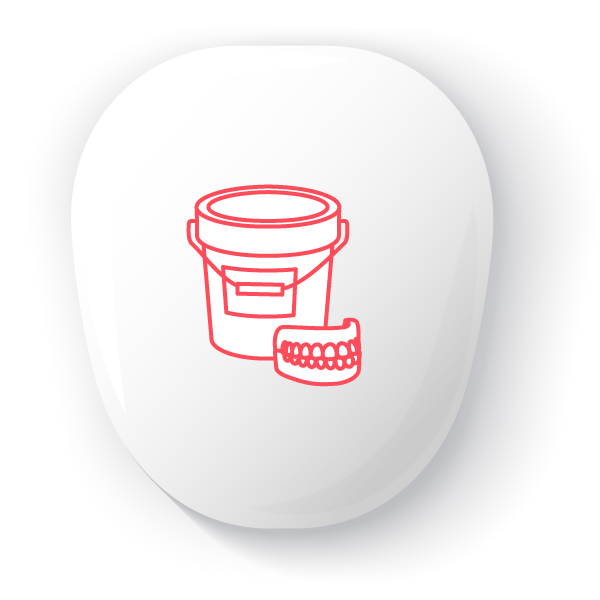
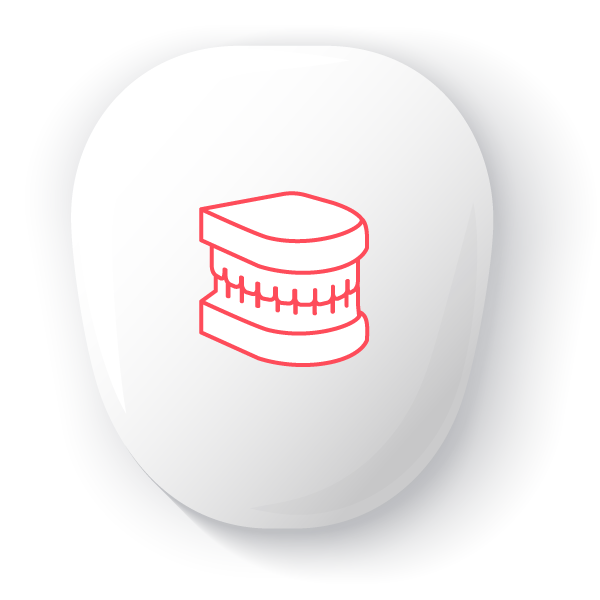
updt

Changed region(s): [[0.3, 0.3, 0.63, 0.66]]

diff --git a/index.html b/index.html
@@ -1446,7 +1446,7 @@ filter: saturate(0) brightness(1);}
             
            
  <style>
-#formadiente {display:block;}
+#formadiente {display:flex;}
 #formaperla, #formadisco {display:none;}
 
 .mibotonera {display:flex;  justify-content: center; flex-wrap:wrap; flex-direction:row; margin: 0 2rem;}
@@ -1482,10 +1482,18 @@ filter: saturate(0) brightness(1);}
 
 .products h2:first-letter {text-transform: capitalize;}
 
+#formadientesmall {flex-direction:row;}
+#formadientesmall ul li {width: auto!important;
+    padding: 0!important;
+    margin: 0!important;
+    flex: 1 1 0; max-width: 8rem;}
+#formadientesmall ul li img {display:block; max-width:8rem;}
 
 @media screen and (max-width: 500px) {
 	
-.boton {margin-left:1rem; padding:13px; border-radius: 50px; border:1px solid #666666;}	}
+.boton {margin-left:1rem; padding:7px; border-radius: 30px; border:1px solid #666666; font-size: 0.75rem;}
+#formadientesmall ul li img {max-width:6rem; margin: 0 auto!important;}
+	}
 
  </style> 
  <script  type="text/javascript" src="https://cdnjs.cloudflare.com/ajax/libs/jquery/3.2.1/jquery.min.js"></script>
@@ -1495,9 +1503,9 @@ filter: saturate(0) brightness(1);}
 $(document).ready(function() {
 
 var display = function(block_name) {
-  $('#formadiente, #formadisco, #formaperla').css('display', 'none');
-  $('#' + block_name).css('display', 'block');
-  $('.' + block_name).css('display', 'block');
+  $('#formadiente, #formadisco, #formaperla, #formadientesmall').css('display', 'none');
+  $('#' + block_name).css('display', 'flex');
+  $('.' + block_name).css('display', 'flex');
 
 
 }
@@ -1514,6 +1522,9 @@ $('.CT').on('click', function() {
   display('formadisco', $(this));
 });
 
+$('.FDS').on('click', function() {
+  display('formadientesmall', $(this));
+});
 
 
 });
@@ -1546,6 +1557,8 @@ $('.CT').on('click', function() {
 <a id="diente" href="#" class="boton UK">Forma de diente</a>
 <a id="perla" href="#" class="boton ES">Forma de perla</a>
 <a id="disco" href="#" class="boton CT">Forma de disco</a>
+<a id="dientepeke" href="#" class="boton FDS">Iconos pequeños</a>
+
 </div></div>    
 
 	<div id="content" class="site-content" tabindex="-1">
@@ -1875,6 +1888,111 @@ $('.CT').on('click', function() {
 		</a></li>
 </ul>
 </div>
+
+<div id="formadientesmall" class="columns-4"><ul class="products columns-4">
+<li class="product-category product first">
+	<a href="https://dent-thel.com/productos-dentales/laboratorio/articulacion/"><img src="./resources/ICONO_2022_PLAIN.jpg" alt="ARTICULACIÓN" width="324" height="324" srcset="resources/ICONO_LAB_2022_ARTICULACION.jpg 600w, https://dent-thel.com/wp-content/uploads/2017/10/ICONO_ARTICULACION-150x150.jpg 150w, https://dent-thel.com/wp-content/uploads/2017/10/ICONO_ARTICULACION-300x300.jpg 300w, https://dent-thel.com/wp-content/uploads/2017/10/ICONO_ARTICULACION-180x180.jpg 180w" sizes="(max-width: 324px) 100vw, 324px">		<h2 class="woocommerce-loop-category__title">
+			ARTICULACIÓN		</h2>
+		</a></li>
+<li class="product-category product">
+	<a href="https://dent-thel.com/productos-dentales/laboratorio/articuladores/"><img src="./resources/ICONO_ARTICULADORES.jpg" alt="ARTICULADORES" width="324" height="324" srcset="resources/ICONO_LAB_2022_ARTICULADORES.jpg 600w, resources/ICONO_LAB_2022_ARTICULADORES.jpg 150w, https://dent-thel.com/wp-content/uploads/2017/10/ICONO_ARTICULADORES-300x300.jpg 300w, https://dent-thel.com/wp-content/uploads/2017/10/ICONO_ARTICULADORES-180x180.jpg 180w" sizes="(max-width: 324px) 100vw, 324px">		<h2 class="woocommerce-loop-category__title">
+			ARTICULADORES		</h2>
+		</a></li>
+<li class="product-category product">
+	<a href="https://dent-thel.com/productos-dentales/laboratorio/ataches-y-elementos-retentivos/"><img src="./resources/ICONO_ATACHES.jpg" alt="ATACHES Y ELEMENTOS RETENTIVOS" width="324" height="324" srcset="resources/ICONO_LAB_2022_ATACHES.png 600w, https://dent-thel.com/wp-content/uploads/2017/10/ICONO_ATACHES-150x150.jpg 150w, https://dent-thel.com/wp-content/uploads/2017/10/ICONO_ATACHES-300x300.jpg 300w, https://dent-thel.com/wp-content/uploads/2017/10/ICONO_ATACHES-180x180.jpg 180w" sizes="(max-width: 324px) 100vw, 324px">		<h2 class="woocommerce-loop-category__title">
+			ATACHES Y ELEMENTOS RETENTIVOS		</h2>
+		</a></li>
+<li class="product-category product last">
+	<a href="https://dent-thel.com/productos-dentales/laboratorio/cementos-laboratorio/"><img src="resources/ICONO_LAB_2022_CEMENTO.png" alt="CEMENTOS LABORATORIO" width="324" height="324" srcset="resources/ICONO_LAB_2022_CEMENTO.png 324w, resources/ICONO_LAB_2022_CEMENTO.png 300w, resources/ICONO_LAB_2022_CEMENTO.png 150w, resources/ICONO_LAB_2022_CEMENTO.png 32w, resources/ICONO_LAB_2022_CEMENTO.png 416w, https://dent-thel.com/wp-content/uploads/2022/03/ICONO_CEMENTOS_LAB-1-100x100.jpg 100w, resources/ICONO_LAB_2022_CEMENTO.png 600w" sizes="(max-width: 324px) 100vw, 324px">		<h2 class="woocommerce-loop-category__title">
+			CEMENTOS LABORATORIO		</h2>
+		</a></li>
+<li class="product-category product first">
+	<a href="https://dent-thel.com/productos-dentales/laboratorio/ceramica-y-accesorios/"><img src="./resources/ICONO_CERAMICA.jpg" alt="CERÁMICA Y ACCESORIOS" width="324" height="324" srcset="resources/ICONO_LAB_2022_CERAMICA.jpg 600w, https://dent-thel.com/wp-content/uploads/2017/10/ICONO_CERAMICA-150x150.jpg 150w, https://dent-thel.com/wp-content/uploads/2017/10/ICONO_CERAMICA-300x300.jpg 300w, https://dent-thel.com/wp-content/uploads/2017/10/ICONO_CERAMICA-180x180.jpg 180w" sizes="(max-width: 324px) 100vw, 324px"><h2 class="woocommerce-loop-category__title">
+			CERÁMICA Y ACCESORIOS		</h2>
+		</a></li>
+<li class="product-category product">
+	<a href="https://dent-thel.com/productos-dentales/laboratorio/ceras-y-accesorios/"><img src="./resources/ICONO_CERAS.jpg" alt="CERAS Y ACCESORIOS" width="324" height="324" srcset="resources/ICONO_LAB_2022_CERA.png 600w, https://dent-thel.com/wp-content/uploads/2017/10/ICONO_CERAS-150x150.jpg 150w, https://dent-thel.com/wp-content/uploads/2017/10/ICONO_CERAS-300x300.jpg 300w, https://dent-thel.com/wp-content/uploads/2017/10/ICONO_CERAS-180x180.jpg 180w" sizes="(max-width: 324px) 100vw, 324px">		<h2 class="woocommerce-loop-category__title">
+			CERAS Y ACCESORIOS		</h2>
+		</a></li>
+<li class="product-category product">
+	<a href="https://dent-thel.com/productos-dentales/laboratorio/colado-y-soldaduras/"><img src="./resources/ICONO_COLADO.jpg" alt="COLADO Y SOLDADURAS" width="324" height="324" srcset="resources/ICONO_LAB_2022_COLADO.png 600w, https://dent-thel.com/wp-content/uploads/2017/10/ICONO_COLADO-150x150.jpg 150w, https://dent-thel.com/wp-content/uploads/2017/10/ICONO_COLADO-300x300.jpg 300w, https://dent-thel.com/wp-content/uploads/2017/10/ICONO_COLADO-180x180.jpg 180w" sizes="(max-width: 324px) 100vw, 324px">		<h2 class="woocommerce-loop-category__title">
+			COLADO Y SOLDADURAS		</h2>
+		</a></li>
+<li class="product-category product last">
+	<a href="https://dent-thel.com/productos-dentales/laboratorio/composites-laboratorio/"><img src="./resources/ICONO_COMPOSITES.jpg" alt="COMPOSITES LABORATORIO" width="324" height="324" srcset="resources/ICONO_LAB_2022_COMPOSITE.png 600w, https://dent-thel.com/wp-content/uploads/2017/10/ICONO_COMPOSITES-150x150.jpg 150w, https://dent-thel.com/wp-content/uploads/2017/10/ICONO_COMPOSITES-300x300.jpg 300w, https://dent-thel.com/wp-content/uploads/2017/10/ICONO_COMPOSITES-180x180.jpg 180w" sizes="(max-width: 324px) 100vw, 324px">		<h2 class="woocommerce-loop-category__title">
+			COMPOSITES LABORATORIO		</h2>
+		</a></li>
+<li class="product-category product first">
+	<a href="https://dent-thel.com/productos-dentales/laboratorio/desinfeccion-y-limpieza/"><img src="./resources/ICONO_DESINFECCION.jpg" alt="DESINFECCIÓN Y LIMPIEZA" width="324" height="324" srcset="resources/ICONO_LAB_2022_DESI.png 600w, https://dent-thel.com/wp-content/uploads/2017/10/ICONO_DESINFECCION-150x150.jpg 150w, https://dent-thel.com/wp-content/uploads/2017/10/ICONO_DESINFECCION-300x300.jpg 300w, https://dent-thel.com/wp-content/uploads/2017/10/ICONO_DESINFECCION-180x180.jpg 180w" sizes="(max-width: 324px) 100vw, 324px">		<h2 class="woocommerce-loop-category__title">
+			DESINFECCIÓN Y LIMPIEZA		</h2>
+		</a></li>
+<li class="product-category product">
+	<a href="https://dent-thel.com/productos-dentales/laboratorio/dientes-y-carillas-acrilicos/"><img src="./resources/ICONO_DIENTES.jpg" alt="DIENTES Y CARILLAS ACRÍLICOS" width="324" height="324" srcset="resources/ICONO_LAB_2022_DIENTES.png 600w, https://dent-thel.com/wp-content/uploads/2017/10/ICONO_DIENTES-150x150.jpg 150w, https://dent-thel.com/wp-content/uploads/2017/10/ICONO_DIENTES-300x300.jpg 300w, https://dent-thel.com/wp-content/uploads/2017/10/ICONO_DIENTES-180x180.jpg 180w" sizes="(max-width: 324px) 100vw, 324px">		<h2 class="woocommerce-loop-category__title">
+			DIENTES Y CARILLAS ACRÍLICOS		</h2>
+		</a></li>
+<li class="product-category product">
+	<a href="https://dent-thel.com/productos-dentales/laboratorio/discos/"><img src="resources/ICONO_LAB_2022_DISCOS.jpg" alt="DISCOS" width="324" height="324" srcset="resources/ICONO_LAB_2022_DISCOS.png 600w, https://dent-thel.com/wp-content/uploads/2017/10/ICONO_DISCOS-150x150.jpg 150w, https://dent-thel.com/wp-content/uploads/2017/10/ICONO_DISCOS-300x300.jpg 300w, https://dent-thel.com/wp-content/uploads/2017/10/ICONO_DISCOS-180x180.jpg 180w" sizes="(max-width: 324px) 100vw, 324px">		<h2 class="woocommerce-loop-category__title">
+			DISCOS		</h2>
+		</a></li>
+<li class="product-category product last">
+	<a href="https://dent-thel.com/productos-dentales/laboratorio/elementos-transporte/"><img src="./resources/ICONO_TRANSPORTE.jpg" alt="ELEMENTOS TRANSPORTE" width="324" height="324" srcset="resources/ICONO_LAB_2022_TPTE.png 600w, https://dent-thel.com/wp-content/uploads/2017/10/ICONO_TRANSPORTE-150x150.jpg 150w, https://dent-thel.com/wp-content/uploads/2017/10/ICONO_TRANSPORTE-300x300.jpg 300w, https://dent-thel.com/wp-content/uploads/2017/10/ICONO_TRANSPORTE-180x180.jpg 180w" sizes="(max-width: 324px) 100vw, 324px">		<h2 class="woocommerce-loop-category__title">
+			ELEMENTOS TRANSPORTE		</h2>
+		</a></li>
+<li class="product-category product first">
+	<a href="https://dent-thel.com/productos-dentales/laboratorio/esqueleticos/"><img src="./resources/ICONO_ESQUELETICOS.jpg" alt="ESQUELÉTICOS" width="324" height="324" srcset="resources/ICONO_LAB_2022_ESQUE.png 600w, https://dent-thel.com/wp-content/uploads/2017/10/ICONO_ESQUELETICOS-150x150.jpg 150w, https://dent-thel.com/wp-content/uploads/2017/10/ICONO_ESQUELETICOS-300x300.jpg 300w, https://dent-thel.com/wp-content/uploads/2017/10/ICONO_ESQUELETICOS-180x180.jpg 180w" sizes="(max-width: 324px) 100vw, 324px">		<h2 class="woocommerce-loop-category__title">
+			ESQUELÉTICOS		</h2>
+		</a></li>
+<li class="product-category product">
+	<a href="https://dent-thel.com/productos-dentales/laboratorio/fresas-y-puntas-montadas/"><img src="./resources/ICONO_FRESAS_LAB.jpg" alt="FRESAS" width="324" height="324" srcset="resources/ICONO_LAB_2022_FRESAS.png 600w, https://dent-thel.com/wp-content/uploads/2017/10/ICONO_FRESAS_LAB-150x150.jpg 150w, https://dent-thel.com/wp-content/uploads/2017/10/ICONO_FRESAS_LAB-300x300.jpg 300w, https://dent-thel.com/wp-content/uploads/2017/10/ICONO_FRESAS_LAB-180x180.jpg 180w" sizes="(max-width: 324px) 100vw, 324px">		<h2 class="woocommerce-loop-category__title">
+			FRESAS		</h2>
+		</a></li>
+<li class="product-category product">
+	<a href="https://dent-thel.com/productos-dentales/laboratorio/fresas-carburo-frank-dental/"><img src="resources/ICONO_LAB_2022_FRESASFD.png" alt="FRESAS CARBURO FRANK DENTAL" width="324" height="324" srcset="resources/ICONO_LAB_2022_FRESASFD.png 324w, https://dent-thel.com/wp-content/uploads/2022/03/ICONO_FRESAS_CARBURO_FD-1-300x300.jpg 300w, https://dent-thel.com/wp-content/uploads/2022/03/ICONO_FRESAS_CARBURO_FD-1-150x150.jpg 150w, https://dent-thel.com/wp-content/uploads/2022/03/ICONO_FRESAS_CARBURO_FD-1-32x32.jpg 32w, https://dent-thel.com/wp-content/uploads/2022/03/ICONO_FRESAS_CARBURO_FD-1-416x416.jpg 416w, https://dent-thel.com/wp-content/uploads/2022/03/ICONO_FRESAS_CARBURO_FD-1-100x100.jpg 100w, resources/ICONO_LAB_2022_FRESASFD.png 600w" sizes="(max-width: 324px) 100vw, 324px">		<h2 class="woocommerce-loop-category__title">
+			FRESAS CARBURO FRANK DENTAL		</h2>
+		</a></li>
+<li class="product-category product last">
+	<a href="https://dent-thel.com/productos-dentales/laboratorio/fresas-horico/"><img src="resources/ICONO_LAB_2022_FRESASH.png" alt="FRESAS HORICO" width="324" height="324">		<h2 class="woocommerce-loop-category__title">
+			FRESAS HORICO		</h2>
+		</a></li>
+<li class="product-category product first">
+	<a href="https://dent-thel.com/productos-dentales/laboratorio/hilos-acero-ganchos-preformados/"><img src="resources/ICONOP_2022_PLAIN.jpg" alt="HILOS ACERO GANCHOS PREFORMADOS" width="324" height="324" srcset="resources/ICONO_LAB_2022_HILOS.png 600w, https://dent-thel.com/wp-content/uploads/2017/10/ICONO_HILOS-150x150.jpg 150w, https://dent-thel.com/wp-content/uploads/2017/10/ICONO_HILOS-300x300.jpg 300w, https://dent-thel.com/wp-content/uploads/2017/10/ICONO_HILOS-180x180.jpg 180w" sizes="(max-width: 324px) 100vw, 324px">		<h2 class="woocommerce-loop-category__title">
+			HILOS ACERO GANCHOS PREFORMADOS		</h2>
+		</a></li>
+<li class="product-category product">
+	<a href="https://dent-thel.com/productos-dentales/laboratorio/instrumental/"><img src="./resources/ICONO_HERRAMIENTAS_LAB.jpg" alt="INSTRUMENTAL" width="324" height="324" srcset="resources/ICONO_LAB_2022_INSTRU.png 600w, https://dent-thel.com/wp-content/uploads/2017/10/ICONO_HERRAMIENTAS_LAB-150x150.jpg 150w, https://dent-thel.com/wp-content/uploads/2017/10/ICONO_HERRAMIENTAS_LAB-300x300.jpg 300w, https://dent-thel.com/wp-content/uploads/2017/10/ICONO_HERRAMIENTAS_LAB-180x180.jpg 180w" sizes="(max-width: 324px) 100vw, 324px">		<h2 class="woocommerce-loop-category__title">
+			INSTRUMENTAL		</h2>
+		</a></li>
+<li class="product-category product">
+	<a href="https://dent-thel.com/productos-dentales/laboratorio/maquinaria-y-recambios/"><img src="./resources/ICONO_MAQUINARIA_LAB.jpg" alt="MAQUINARIA Y RECAMBIOS" width="324" height="324" srcset="resources/ICONO_LAB_2022_MAQUI.png 600w, https://dent-thel.com/wp-content/uploads/2017/10/ICONO_MAQUINARIA_LAB-150x150.jpg 150w, https://dent-thel.com/wp-content/uploads/2017/10/ICONO_MAQUINARIA_LAB-300x300.jpg 300w, https://dent-thel.com/wp-content/uploads/2017/10/ICONO_MAQUINARIA_LAB-180x180.jpg 180w" sizes="(max-width: 324px) 100vw, 324px">		<h2 class="woocommerce-loop-category__title">
+			MAQUINARIA Y RECAMBIOS		</h2>
+		</a></li>
+<li class="product-category product last">
+	<a href="https://dent-thel.com/productos-dentales/laboratorio/mobiliario-laboratorio/"><img src="./resources/ICONO_MOBILIARIO_LAB.jpg" alt="MOBILIARIO" width="324" height="324" srcset="resources/ICONO_LAB_2022_MOBI.png 600w, https://dent-thel.com/wp-content/uploads/2017/10/ICONO_MOBILIARIO_LAB-150x150.jpg 150w, https://dent-thel.com/wp-content/uploads/2017/10/ICONO_MOBILIARIO_LAB-300x300.jpg 300w, https://dent-thel.com/wp-content/uploads/2017/10/ICONO_MOBILIARIO_LAB-180x180.jpg 180w" sizes="(max-width: 324px) 100vw, 324px">		<h2 class="woocommerce-loop-category__title">
+			MOBILIARIO		</h2>
+		</a></li>
+<li class="product-category product first">
+	<a href="https://dent-thel.com/productos-dentales/laboratorio/modelos-y-preparacion-modelos/"><img src="./resources/ICONO_MODELOS.jpg" alt="MODELOS Y PREPARACIÓN MODELOS" width="324" height="324" srcset="resources/ICONO_LAB_2022_MODELOS.png 600w, https://dent-thel.com/wp-content/uploads/2017/10/ICONO_MODELOS-150x150.jpg 150w, https://dent-thel.com/wp-content/uploads/2017/10/ICONO_MODELOS-300x300.jpg 300w, https://dent-thel.com/wp-content/uploads/2017/10/ICONO_MODELOS-180x180.jpg 180w" sizes="(max-width: 324px) 100vw, 324px">		<h2 class="woocommerce-loop-category__title">
+			MODELOS Y PREPARACIÓN MODELOS		</h2>
+		</a></li>
+<li class="product-category product">
+	<a href="https://dent-thel.com/productos-dentales/laboratorio/pulido-y-abrillantado/"><img src="./resources/ICONO_PULIDO_LAB.png" alt="PULIDO Y ABRILLANTADO" width="324" height="324" srcset="resources/ICONO_LAB_2022_PULIDO.png 600w, https://dent-thel.com/wp-content/uploads/2017/10/ICONO_PULIDORES_LAB-150x150.jpg 150w, https://dent-thel.com/wp-content/uploads/2017/10/ICONO_PULIDORES_LAB-300x300.jpg 300w, https://dent-thel.com/wp-content/uploads/2017/10/ICONO_PULIDORES_LAB-180x180.jpg 180w" sizes="(max-width: 324px) 100vw, 324px">		<h2 class="woocommerce-loop-category__title">
+			PULIDO Y ABRILLANTADO		</h2>
+		</a></li>
+<li class="product-category product">
+	<a href="https://dent-thel.com/productos-dentales/laboratorio/resinas-y-accesorios/"><img src="./resources/ICONO_RESINAS.jpg" alt="RESINAS Y ACCESORIOS" width="324" height="324" srcset="resources/ICONO_LAB_2022_RESINA.png 600w, https://dent-thel.com/wp-content/uploads/2017/10/ICONO_RESINAS-150x150.jpg 150w, https://dent-thel.com/wp-content/uploads/2017/10/ICONO_RESINAS-300x300.jpg 300w, https://dent-thel.com/wp-content/uploads/2017/10/ICONO_RESINAS-180x180.jpg 180w" sizes="(max-width: 324px) 100vw, 324px">		<h2 class="woocommerce-loop-category__title">
+			RESINAS Y ACCESORIOS		</h2>
+		</a></li>
+<li class="product-category product last">
+	<a href="https://dent-thel.com/productos-dentales/laboratorio/siliconas-y-material-impresion/"><img src="./resources/ICONO_SILICONAS.jpg" alt="SILICONAS Y MATERIAL IMPRESIÓN" width="324" height="324" srcset="resources/ICONO_LAB_2022_SILICONA.png 600w, https://dent-thel.com/wp-content/uploads/2017/10/ICONO_SILICONAS-150x150.jpg 150w, https://dent-thel.com/wp-content/uploads/2017/10/ICONO_SILICONAS-300x300.jpg 300w, https://dent-thel.com/wp-content/uploads/2017/10/ICONO_SILICONAS-180x180.jpg 180w" sizes="(max-width: 324px) 100vw, 324px">		<h2 class="woocommerce-loop-category__title">
+			SILICONAS Y MATERIAL IMPRESIÓN		</h2>
+		</a></li>
+<li class="product-category product first">
+	<a href="https://dent-thel.com/productos-dentales/laboratorio/yesos-y-accesorios/"><img src="./resources/ICONO_YESOS-324x324.jpg" alt="YESOS Y ACCESORIOS" width="324" height="324" srcset="resources/ICONO_LAB_2022_YESOS.png 324w, https://dent-thel.com/wp-content/uploads/2017/10/ICONO_YESOS-300x300.jpg 300w, https://dent-thel.com/wp-content/uploads/2017/10/ICONO_YESOS-150x150.jpg 150w, https://dent-thel.com/wp-content/uploads/2017/10/ICONO_YESOS-416x416.jpg 416w, https://dent-thel.com/wp-content/uploads/2017/10/ICONO_YESOS-100x100.jpg 100w, resources/ICONO_LAB_2022_YESOS.png 600w" sizes="(max-width: 324px) 100vw, 324px">		<h2 class="woocommerce-loop-category__title">
+			YESOS Y ACCESORIOS		</h2>
+		</a></li>
+</ul>
+</div>
+
 
 
 <div class="storefront-sorting"></div>			</main><!-- #main -->
